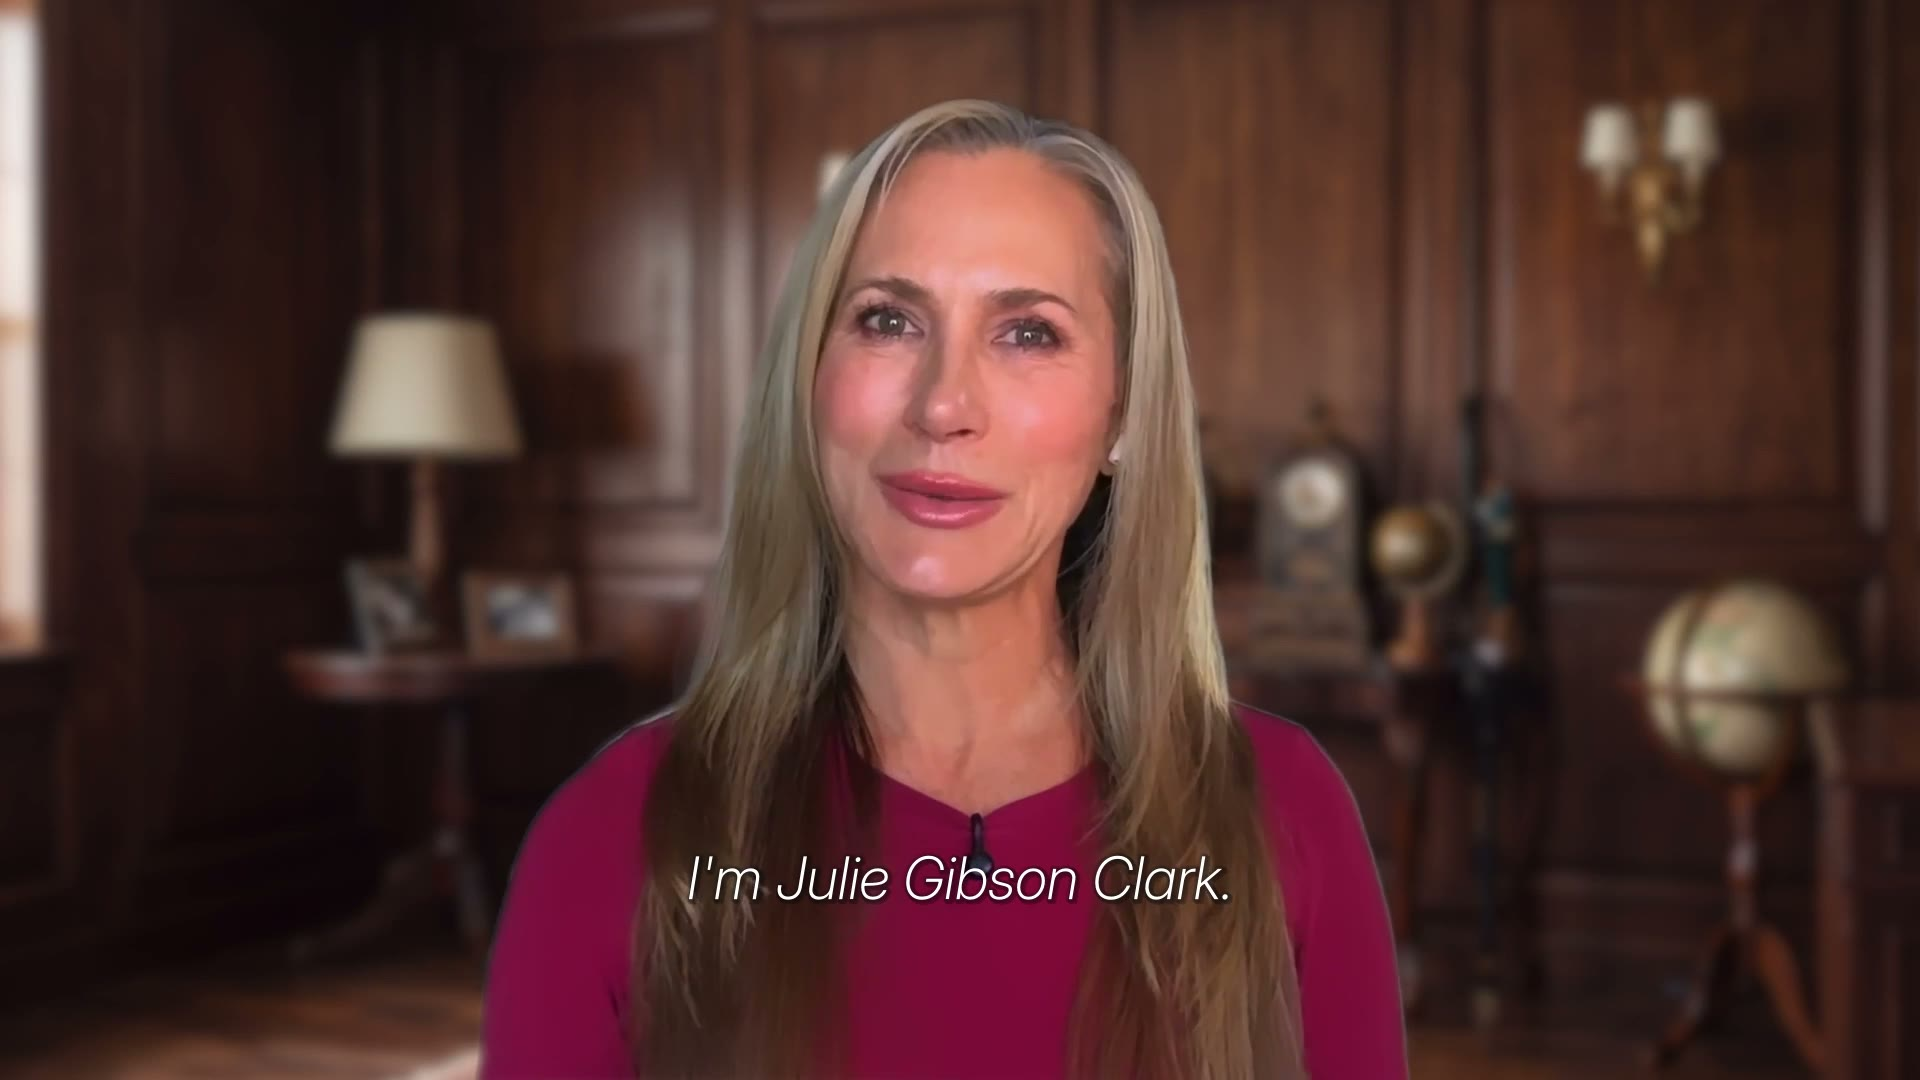
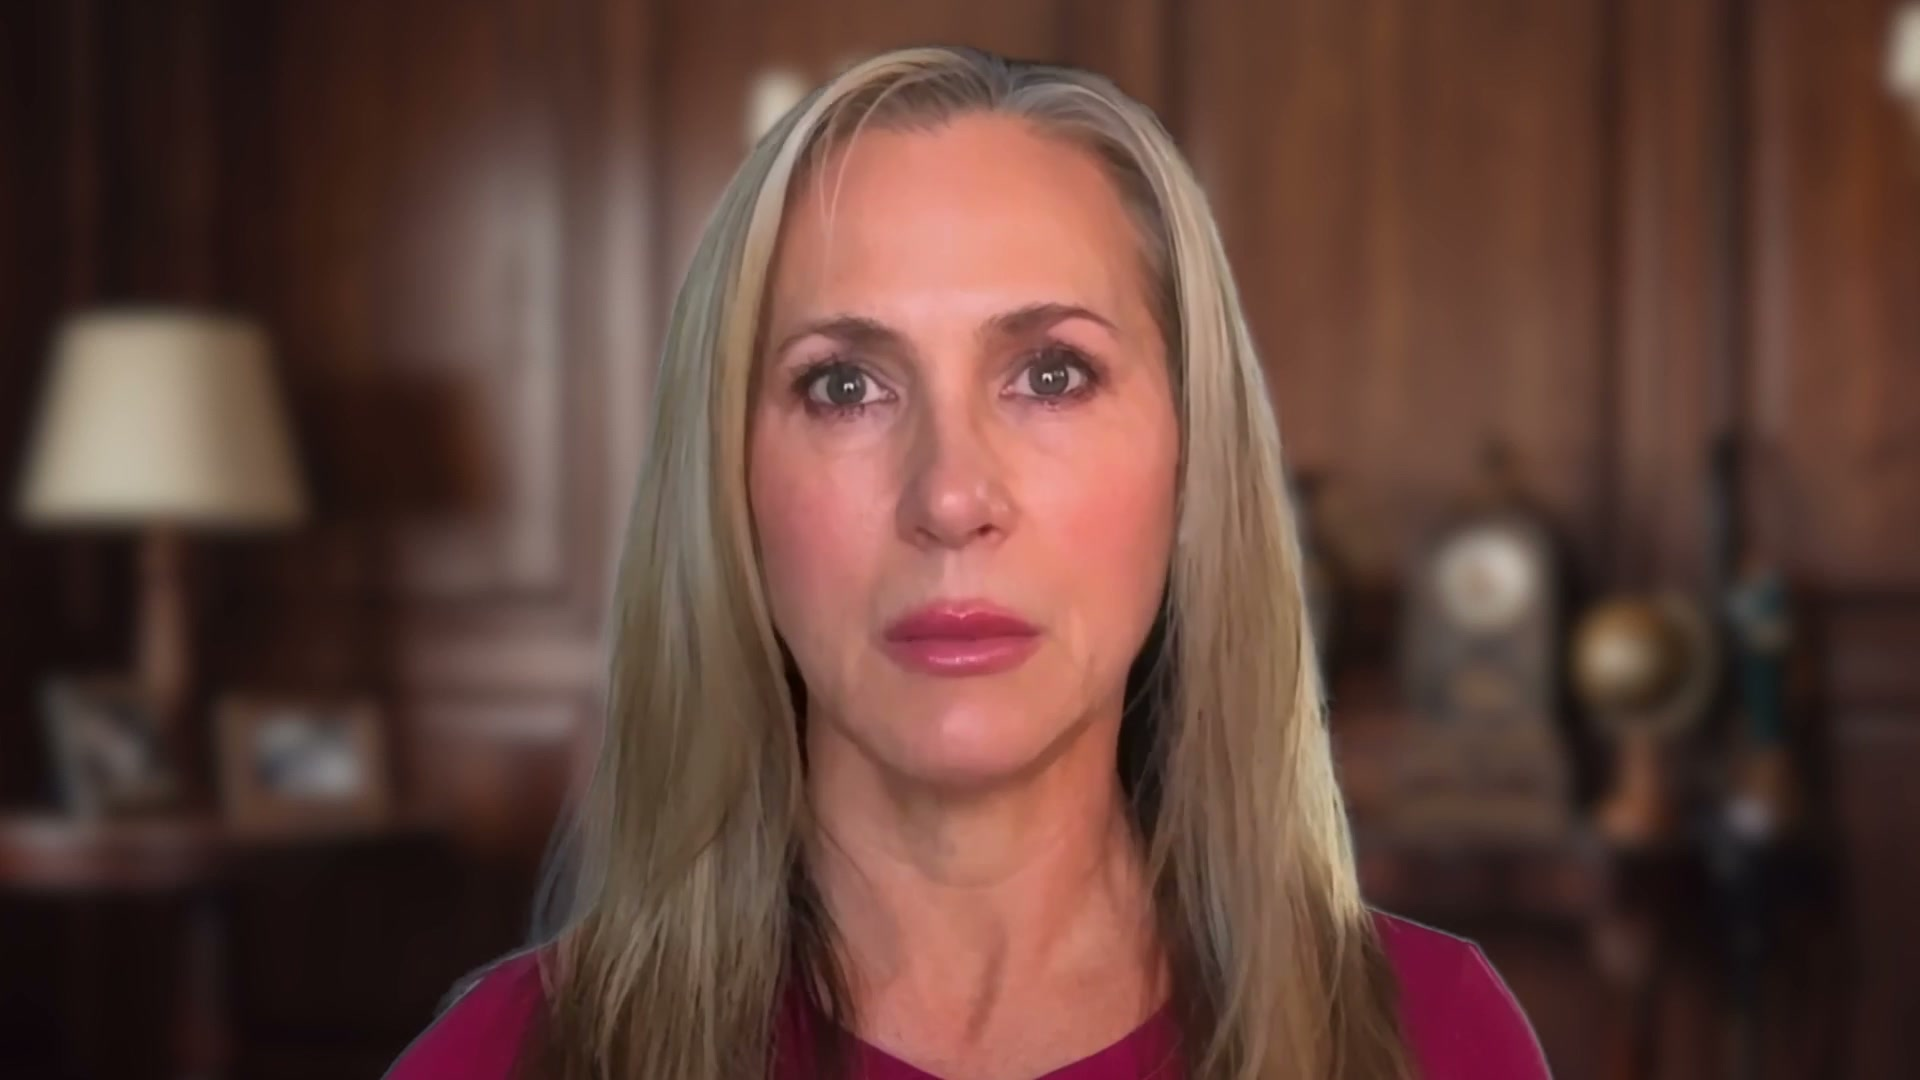
v28: fuller zoom room, devices slider, clean film poster

diff --git a/index.html b/index.html
@@ -1169,14 +1169,23 @@ h2.anton{font-size:clamp(54px,5.2vw,92px)!important;line-height:1.05}
 }
 @media(max-width:620px){
   .h20-stage{width:100%}
-  .mc-barlogo{display:block;height:22px}
+  .mc-barlogo{display:block;height:30px}
   .mc-bar{justify-content:space-between;padding:11px 14px}
   .mc-name{white-space:nowrap}
   .mc-grid{grid-template-columns:repeat(4,1fr)}
   .mc-julie{grid-column:1/5;grid-row:1/3;aspect-ratio:16/9.6}
-  .mc-la,.mc-lb{display:none}
-  .mc-grid .mc-p:nth-child(n+12){display:none}
+  .mc-la{display:none}
+  .mc-lb{display:block;grid-column:1/3;grid-row:5;aspect-ratio:auto}
+  .mc-grid .mc-p:nth-child(n+18){display:none}
   .mc-name{font-size:12px;padding:3px 9px}
+}
+/* ===== V28: fuller zoom room, devices slider, clean film poster ===== */
+@media(max-width:760px){
+  .dev-stage{display:block}
+  .dev-phones{display:flex;flex-direction:row;justify-content:flex-start;align-items:stretch;overflow-x:auto;scroll-snap-type:x mandatory;gap:16px;padding:10px 2px 28px;margin-top:30px;scrollbar-width:none;-webkit-overflow-scrolling:touch}
+  .dev-phones::-webkit-scrollbar{display:none}
+  .dev-phones .phone,.dev-phones .phone.ph-b{flex:0 0 74vw;width:auto;position:static;transform:none;scroll-snap-align:center}
+  .film-frame{border-radius:18px}
 }
 </style>
 </head>
